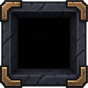
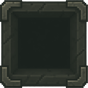
Align the upper-floor hero and unify the slate panels

diff --git a/src/arena.ts b/src/arena.ts
@@ -105,8 +105,33 @@ export const upperCardLanes = (count: number) => count === 3 ? [.39, .631, .91] 
 const upperActorLanes = (count: number, wide: boolean) => count === 3
   ? wide ? [.31, .631, .914] : [.347, .656, .920]
   : upperCardLanes(count)
-const upperHeroLane = .13
 const upperTier = (width: number) => width >= 344 ? 60 : 35
+const upperEnemyScale = (id: UpperRole, lane: number, wide: boolean, px: number) =>
+  (4 + Number(wide) - Number(lane > 0 || id === 'gatekeeper')) * px
+// Leftmost opaque pixel relative to the foot in poses that extend past idle.
+const upperHeroOverhang: Record<string, number> = {
+  'attack-prepare': 14, step: 4, attack: 20, 'attack-follow': 19, hit: 9,
+}
+
+function layoutUpperEnemies(roles: readonly UpperRole[], width: number, wide: boolean, px: number, playerRight: number) {
+  const lanes = upperActorLanes(roles.length, wide)
+  const widths = roles.map((id, lane) => {
+    const { cell } = atlasCell(frame(upperSprites[id], lane ? 'rear-ready' : 'ready'))
+    return cell.bounds[2] * upperEnemyScale(id, lane, wide, px)
+  })
+  const rightEdge = width - 4 * px
+  let remaining = widths.reduce((total, item) => total + item, 0)
+  const gap = Math.max(0, Math.min(12 * px, Math.floor((rightEdge - playerRight - remaining) / Math.max(1, roles.length))))
+  let left = playerRight
+  return widths.map((bodyWidth, lane) => {
+    const half = Math.ceil(bodyWidth / 2)
+    const latest = rightEdge - remaining + half - (roles.length - lane - 1) * gap
+    const center = Math.min(latest, Math.max(left + gap + half, Math.round(lanes[lane] * width)))
+    left = center - half + bodyWidth
+    remaining -= bodyWidth
+    return center
+  })
+}
 const upperBossArt = 'upper-boss-special'
 const upperAttackStages = ['anticipate', 'approach', 'contact', 'follow'] as const
 const upperHeavyPoses = ['charge-set', 'charge-approach', 'charge-contact', 'charge-follow'] as const
@@ -255,7 +280,7 @@ export class Arena {
   private lastFrame = 0
   private upperScene?: Formation
   private upperMotion?: UpperMotion & { at: number; hold: number }
-  private upperFallen: { id: UpperRole; lane: number; count: number; at: number }[] = []
+  private upperFallen: { id: UpperRole; lane: number; roles: UpperRole[]; at: number }[] = []
 
   constructor(frame: HTMLElement, encounter: HTMLElement, intent: HTMLElement, inventory: HTMLElement) {
     this.frame = frame
@@ -363,9 +388,19 @@ export class Arena {
     this.encounter.style.setProperty('--ground', `${ground}px`)
     const upper = this.battle?.formation
     const tier = upperTier(stage.width)
-    if (upper) this.encounter.style.setProperty('--upper-tier', `${tier}px`)
-    this.encounter.style.setProperty('--player-x', `${upper ? stage.width * upperHeroLane : x(hero)}px`)
-    this.encounter.style.setProperty('--enemy-x', `${upper ? stage.width * upperActorLanes(livingEnemies(upper).length, tier === 60)[0] : x(enemy)}px`)
+    let enemyX = x(enemy)
+    if (upper) {
+      const px = Math.max(1, Math.round(this.density))
+      const player = placements.get(hero)!
+      const edge = 4 * px + hero.restReach![0] * player.scale
+      player.foot = zoom > 1 ? Math.max(edge, Math.round(this.canvas.width * .18)) : edge
+      const foes = livingEnemies(upper).map(enemy => enemy.id)
+      const [front] = layoutUpperEnemies(foes, this.canvas.width, tier === 60, px, player.foot + hero.restReach![1] * player.scale)
+      if (front !== undefined) enemyX = canvasLeft + front / this.density
+      this.encounter.style.setProperty('--upper-tier', `${tier}px`)
+    }
+    this.encounter.style.setProperty('--player-x', `${x(hero)}px`)
+    this.encounter.style.setProperty('--enemy-x', `${enemyX}px`)
     this.encounter.style.setProperty('--player-body', `${ground - hero.footY * placements.get(hero)!.scale * .51 / this.density}px`)
     this.encounter.style.setProperty('--enemy-body', `${ground - (enemy.footY - enemy.head) * foe.scale * .57 / this.density}px`)
     if (this.enemyId === 'escort') {
@@ -763,23 +798,26 @@ export class Arena {
     const shiftProgress = motion?.from ? motion.kind === 'advance' ? progress : 0 : 1
     const foes = livingEnemies(formation)
     const previous = motion?.from && livingEnemies(motion.from)
-    const getX = (lane: number, count = foes.length) => Math.round(upperActorLanes(count, wide)[lane] * canvas.width)
+    const { foot: heroX, scale: heroScale } = this.placements.get(hero)!
+    const layout = (roles: readonly UpperRole[]) =>
+      layoutUpperEnemies(roles, canvas.width, wide, px, heroX + hero.restReach![1] * heroScale)
+    const settled = layout(foes.map(enemy => enemy.id))
+    const starting = previous ? layout(previous.map(enemy => enemy.id)) : settled
     const getY = (lane: number) => floor - (lane ? upper : 0)
-    const heroX = Math.round(canvas.width * ((previous ?? foes).length === 3 ? .083 : .095))
     const point = (id: UpperRole, index: number) => {
       const before = previous?.findIndex(enemy => enemy.id === id) ?? index
       const old = before < 0 ? index : before
-      const fromX = getX(old, previous?.length)
-      return { x: Math.round(fromX + (getX(index) - fromX) * shiftProgress),
+      const fromX = starting[old] ?? settled[index]
+      return { x: Math.round(fromX + (settled[index] - fromX) * shiftProgress),
         y: Math.round(getY(old) + (getY(index) - getY(old)) * shiftProgress), old }
     }
     // The boss has denser front art and its own compact rear cells.
-    const selectScale = (id: UpperRole, index: number) => (4 + Number(wide) - Number(index > 0 || id === 'gatekeeper')) * px
+    const selectScale = (id: UpperRole, index: number) => upperEnemyScale(id, index, wide, px)
     const centerOffset = (cell: ReturnType<typeof atlasCell>['cell'], pivot: number[], scale: number) =>
       Math.round((cell.bounds[0] + cell.bounds[2] / 2 - pivot[0]) * scale)
     if (foes.length) {
       context.fillStyle = '#bfa985'
-      context.fillRect(getX(0) - 21 * px, floor + px, 42 * px, px)
+      context.fillRect(settled[0] - 21 * px, floor + px, 42 * px, px)
     }
     for (const [index, enemy] of foes.entries()) {
       const { x, y } = point(enemy.id, index)
@@ -795,16 +833,15 @@ export class Arena {
       const scale = selectScale(fall.id, fall.lane)
       const pose = this.reducedMotion ? frame(name, 'down') : hurtFrame(name, 8, true, age)
       const { cell, atlas, art } = atlasCell(age < fracture.release || this.reducedMotion ? pose : frame(name, 'heavy-hit'))
-      const x = getX(fall.lane, fall.count) - centerOffset(cell, atlas.pivot, scale)
+      const x = layout(fall.roles)[fall.lane] - centerOffset(cell, atlas.pivot, scale)
       const y = getY(fall.lane)
       if (age < fracture.release || this.reducedMotion) this.drawCell(pose, x, y, scale)
       else this.drawBrokenBody(art, cell.rect, atlas.pivot, x, y, scale, age, upperMaterials[fall.id] ?? null)
     }
-    let bladeX = 0, bladeY = 0
+    let bladeX = 0
     let heroPose = this.battle?.phase === 'lost' ? 'down' : 'idle'
-    function bladeOffset(x: number, y: number, t: number) {
-      bladeX = (x - heroX - (heroSwordTip[0] - heroFootX) * 2 * px) * t
-      bladeY = (y - floor - (heroSwordTip[1] - hero.footY) * 2 * px) * t
+    function bladeOffset(x: number, t: number) {
+      bladeX = (x - heroX - (heroSwordTip[0] - heroFootX) * heroScale) * t
     }
     for (let index = foes.length - 1; index >= 0; index--) {
       const enemy = foes[index]
@@ -846,8 +883,8 @@ export class Arena {
         const tip = cell.candidateContact ?? [cell.bounds[0], atlas.pivot[1] - 14]
         const distance = preparing ? Math.min(1, elapsed / approach) : Math.max(0, 1 - Math.max(0, elapsed - 65) / 120)
         if (!this.reducedMotion || !preparing) {
-          x += Math.round((heroX + 10 * px - x - (tip[0] - atlas.pivot[0]) * scale) * distance)
-          y += Math.round((floor - 15 * px - y - (tip[1] - atlas.pivot[1]) * scale) * distance)
+          x += Math.round((heroX + 5 * heroScale - x - (tip[0] - atlas.pivot[0]) * scale) * distance)
+          y += Math.round((floor - 7.5 * heroScale - y - (tip[1] - atlas.pivot[1]) * scale) * distance)
         }
         heroPose = motion.kind === 'block' ? 'guard-brace' : motion.kind === 'recoil' ? 'hit' : 'guard'
         if (motion.kind === 'recoil' && !this.reducedMotion) {
@@ -865,33 +902,33 @@ export class Arena {
       if (isSource && motion.kind === 'swing') {
         const t = this.reducedMotion ? 1 : Math.min(1, elapsed / (motion.approach ?? 106))
         heroPose = t < .35 ? 'attack-prepare' : t < .82 ? 'step' : 'attack'
-        bladeOffset(x + (cell.bounds[0] - atlas.pivot[0]) * scale, y - 18 * px, motion.approach ? t * t : t)
+        bladeOffset(x + (cell.bounds[0] - atlas.pivot[0]) * scale, motion.approach ? t * t : t)
       }
     }
     if (motion?.blade && motion.kind === 'hit' && elapsed < 145) {
-      const lane = previous?.findIndex(enemy => enemy.id === motion.id) ?? 0
+      const lane = Math.max(0, previous?.findIndex(enemy => enemy.id === motion.id) ?? 0)
       const name = upperSprites[motion.id]
       const { cell } = atlasCell(frame(name, lane ? 'rear-ready' : 'ready'))
       const held = this.reducedMotion ? 1 : Math.min(1, (145 - elapsed) / 92)
       heroPose = held === 1 ? 'attack' : 'attack-follow'
-      bladeOffset(getX(lane, previous?.length) - cell.bounds[2] * selectScale(motion.id, lane) / 2, getY(lane) - 18 * px, held)
+      bladeOffset(starting[lane] - Math.ceil(cell.bounds[2] * selectScale(motion.id, lane) / 2), held)
     }
-    this.placements.set(hero, { foot: heroX, scale: 2 * px, travel: 0 })
-    this.drawHero(heroPose, bladeX, bladeY)
+    const leftReach = upperHeroOverhang[heroPose] ?? hero.restReach![0]
+    this.drawHero(heroPose, Math.max(bladeX, 3 * px + leftReach * heroScale - heroX))
     if (motion?.kind === 'hit' && !motion.defeated && !this.reducedMotion) {
       const material = upperMaterials[motion.id]
       const lane = previous?.findIndex(enemy => enemy.id === motion.id) ?? -1
       if (material && lane >= 0) {
         const { cell } = atlasCell(frame(upperSprites[motion.id], lane ? 'rear-ready' : 'ready'))
         const ground = getY(lane)
-        const x = getX(lane, previous?.length) - cell.bounds[2] * selectScale(motion.id, lane) / 2
+        const x = starting[lane] - Math.ceil(cell.bounds[2] * selectScale(motion.id, lane) / 2)
         drawMaterialChips(context, material, elapsed, x, ground - 18 * px, ground, px, motion.amount! >= 5)
       }
     }
     if (motion?.kind === 'block' && elapsed < 100) {
       context.fillStyle = '#ffe5a6'
-      context.fillRect(heroX + 12 * px, floor - 16 * px, 8 * px, 2 * px)
-      context.fillRect(heroX + 14 * px, floor - 20 * px, 2 * px, 8 * px)
+      context.fillRect(heroX + 6 * heroScale, floor - 8 * heroScale, 8 * px, 2 * px)
+      context.fillRect(heroX + 7 * heroScale, floor - 10 * heroScale, 2 * px, 8 * px)
     }
     context.restore()
   }
@@ -910,7 +947,7 @@ export class Arena {
     if (motion?.defeated && formation) {
       const previous = livingEnemies(motion.from ?? formation)
       const lane = previous.findIndex(enemy => enemy.id === motion.id)
-      this.upperFallen.push({ id: motion.id, lane: Math.max(0, lane), count: previous.length, at })
+      this.upperFallen.push({ id: motion.id, lane: Math.max(0, lane), roles: previous.map(enemy => enemy.id), at })
     }
     this.restartAnimation()
   }

diff --git a/src/style.css b/src/style.css
@@ -2605,6 +2605,9 @@ main[data-screen='defeat'] {
 .upper-field .combatant.player {
   --card-width: 78px;
 }
+@media (max-width: 560px) {
+  [data-screen='battle'] #battle .encounter.upper-field { margin-inline: -16px; }
+}
 .upper-readout { position: absolute; inset: 0; pointer-events: none; z-index: 2; }
 .upper-goal {
   position: absolute;
@@ -2621,13 +2624,16 @@ main[data-screen='defeat'] {
 }
 .upper-goal b { color: #ffd689; font-size: .95rem; }
 .upper-card {
+  --upper-card-width: 64px;
+  --upper-card-edge: calc(var(--upper-card-width) / 2 + 4px);
   position: absolute;
-  inset: calc(var(--ground, 130px) + 3px) auto auto var(--lane-x);
+  inset: calc(var(--ground, 130px) + 3px) auto auto
+    clamp(var(--upper-card-edge), var(--lane-x), calc(100% - var(--upper-card-edge)));
   transform: translateX(-50%);
   display: grid;
   justify-items: center;
   align-content: start;
-  inline-size: 64px;
+  inline-size: var(--upper-card-width);
   padding: 2px 3px;
   color: #fff2d5;
   background: #28231ff5;
@@ -2638,7 +2644,7 @@ main[data-screen='defeat'] {
   line-height: 1.15;
 }
 .upper-card:not([data-lane='0']) { inset-block-start: calc(var(--ground, 130px) - var(--upper-tier, 35px) + 3px); border-color: #8f897e; }
-.upper-card[data-role='gatekeeper'] { color: #ffe6ac; inline-size: 76px; }
+.upper-card[data-role='gatekeeper'] { color: #ffe6ac; --upper-card-width: 76px; }
 .upper-card[data-role='gatekeeper'] .upper-hp { font-size: .85rem; gap: 2px; }
 .upper-name { white-space: nowrap; }
 .upper-position { display: flex; color: #fdd390; font-size: .8rem; }
@@ -2693,7 +2699,7 @@ main[data-screen='defeat'] {
 }
 
 @media (min-width: 361px) {
-  .upper-card { inline-size: 70px; }
+  .upper-card { --upper-card-width: 70px; }
 }
 
 @media (max-height: 620px) {

diff --git a/art-source/combat-controls/export.py b/art-source/combat-controls/export.py
@@ -29,8 +29,9 @@ for i, name in enumerate(("bone", "ego", "socket")):
     atlas.save(DEST / f"{name}.png", optimize=True)
 
 socket = part_at(sheet, 2).resize((88, 88), Image.Resampling.LANCZOS)
-socket.save(DEST / "slot-frame.png", optimize=True)
-tint(socket, "#222b25", "#b8b395").save(DEST / "slot-filled.png", optimize=True)
+slate = tint(socket, "#222b25", "#b8b395")
+ImageEnhance.Brightness(slate).enhance(0.76).save(DEST / "slot-frame.png", optimize=True)
+slate.save(DEST / "slot-filled.png", optimize=True)
 tint(socket, "#171316", "#ac7850").resize((44, 44), Image.Resampling.LANCZOS).save(
     DEST / "stolen-socket.png", optimize=True,
 )
